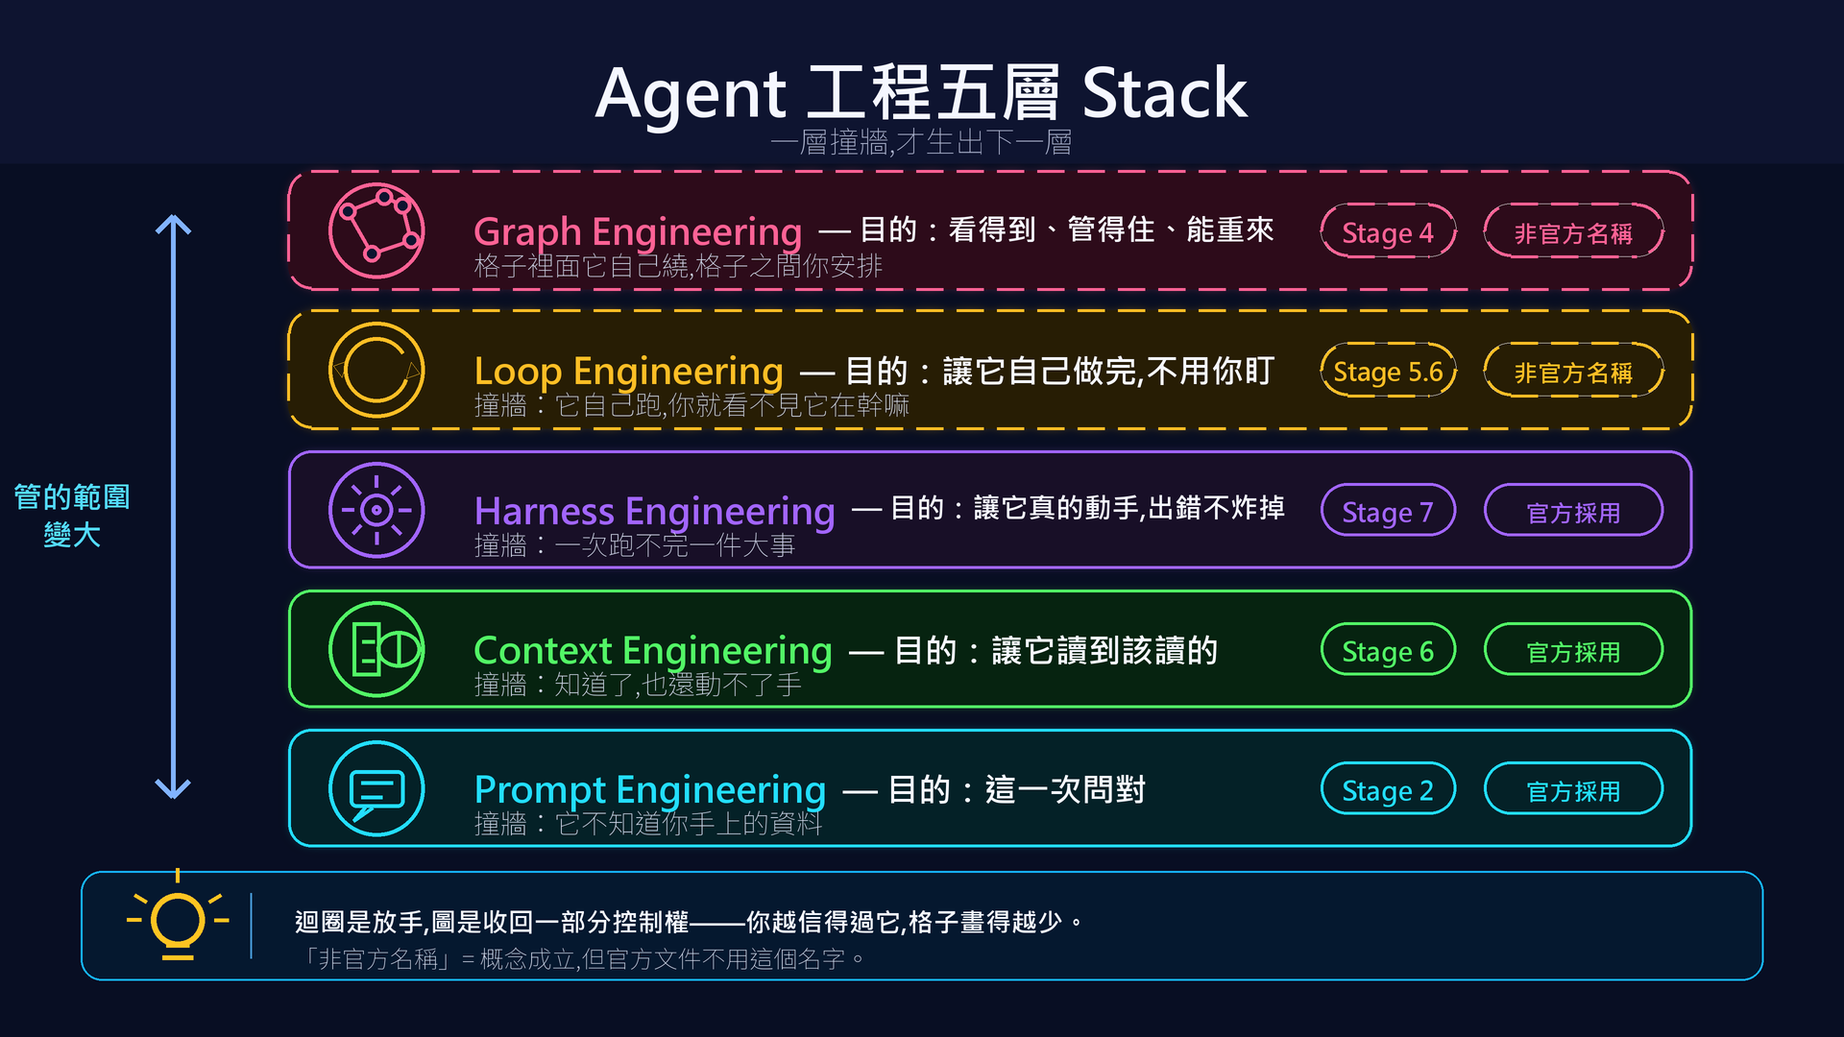
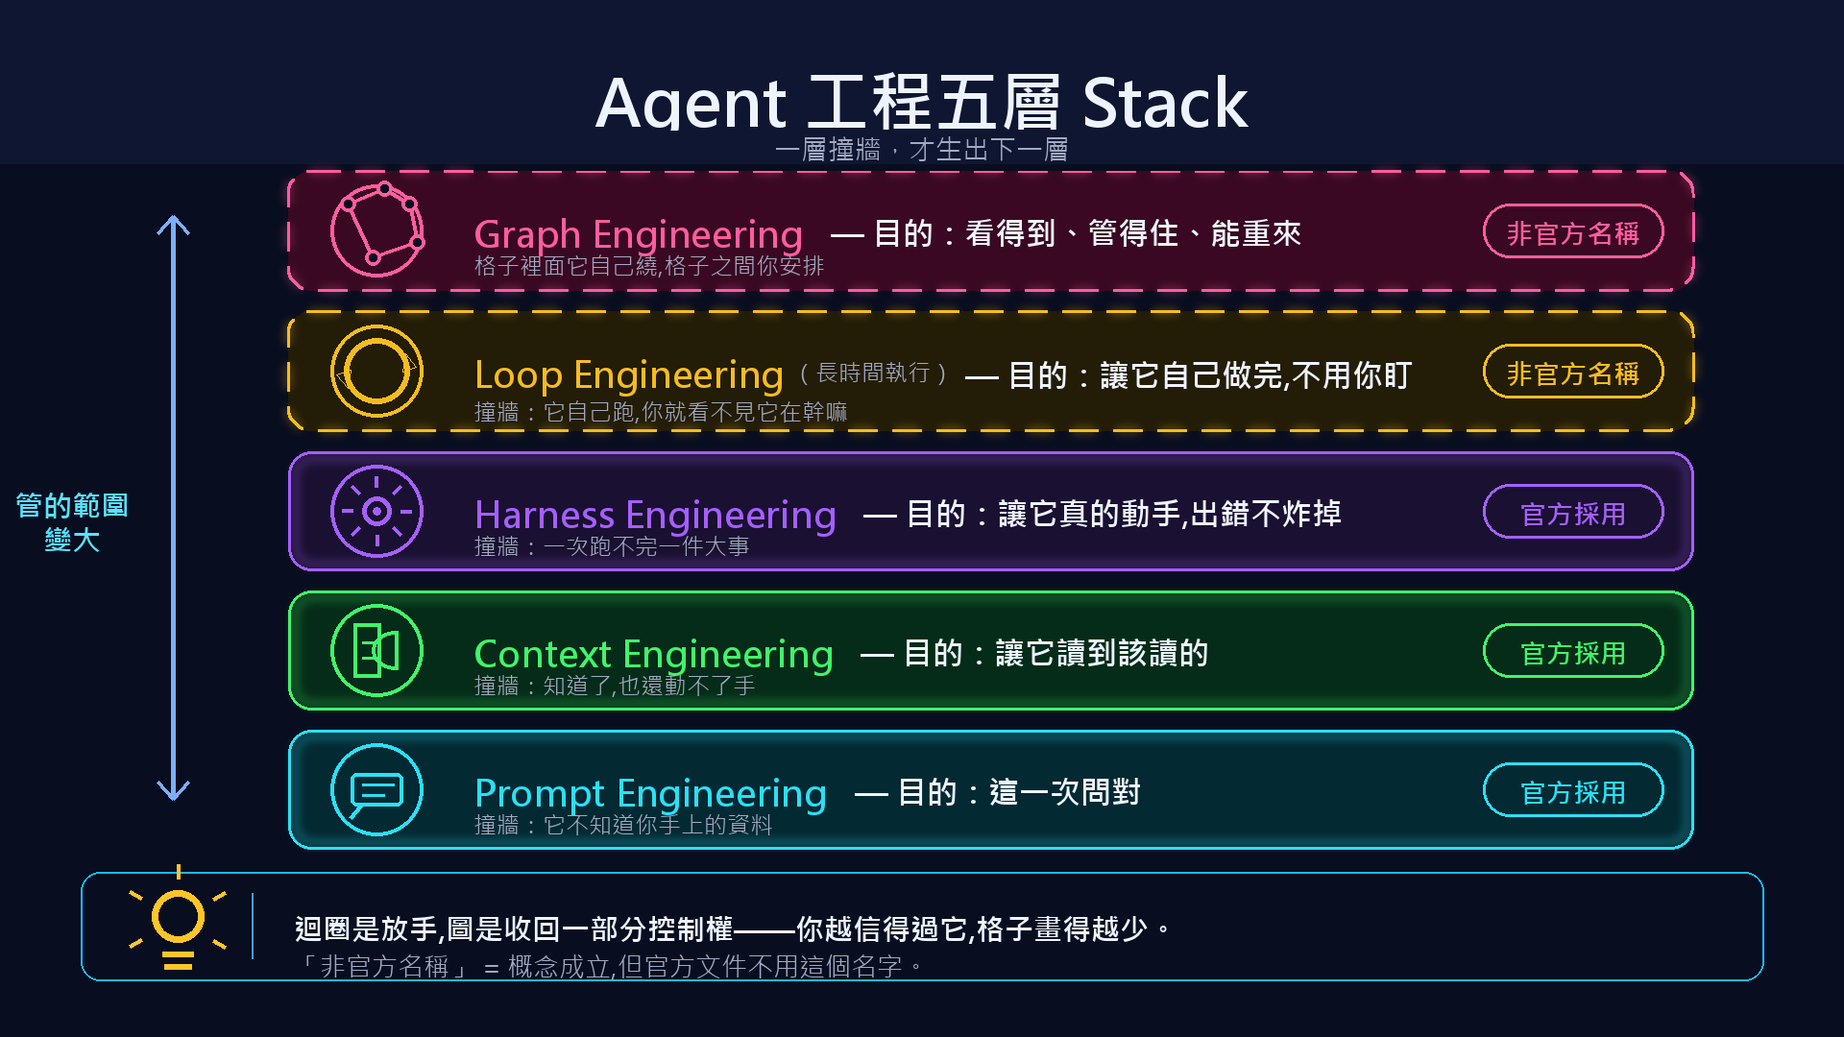
chore: sync upstream content

diff --git a/CHANGELOG.md b/CHANGELOG.md
@@ -6,6 +6,19 @@ Format: `YYYY-MM-DD · category · 1-line summary (commit-sha)`.
 
 ---
 
+## 2026-08-13
+
+- **fix** · **維護者回報五層階梯「排序看起來有問題」,查下去發現是兩個不同的毛病**。第一個:表格的「對應 stage」欄由上往下是 `2 → 6 → 7 → 5.6 → 4`——**前三列遞增、後兩列突然倒退**,看起來像階梯排錯(圖上更明顯:堆疊最上層的 Graph 標的是 Stage 4)。實際上那欄是「這個主題在哪一章講」,不是閱讀順序。欄名改成 **「在哪一章講」**,並加一句「**不是閱讀順序**,照 Stage 0 → 8 讀就好」。
+- **fix** · **第二個才是根因:`loop` 這個詞在同一章有兩個意思**。harness 自己的八個核心元件,第一個就叫 `Agent loop`(「LLM → tool → result → LLM」的機械迴圈);而第 4 層又叫 Loop Engineering。**同一個字,一個在 harness 裡面、一個在 harness 上面**,讀起來當然卡。stage 07 四處消歧義:第 4 層加副標 **(長時間執行)**、八元件那格加 **(單次執行內)** 並註明兩者層次不同、圖下補一句指路、白話差異那條點明「不是 harness 裡那個單次執行的機械迴圈」。
+- **fix** · **同一個字在 glossary 也撞,而且讀者卡住時第一個去查的是 glossary,不是 stage 07**。`Agent Loop` 與 `Loop Engineering` 兩條各自獨立,誰都沒提對方。兩條互相加上一句交叉引用(三語共六處)。這是同一個缺陷的另一個表面,不補等於只修了一半。
+- **content** · **沒有把 Loop 層拿掉**。維護者原本的直覺是收成四層(prompt → context → harness → graph),那也站得住。但這份階梯是**用「撞到什麼牆」串起來的**,而第 3 層 harness 撞的牆寫的是「一次跑不完一件大事」。收成四層之後,回答這道牆的就變成 Graph——可是 Graph 自己的目的欄寫的是「看得到、管得住、能重來」,那是**看得見**的問題,不是**跑得久**的問題。鏈子會斷在一個承重的接點上。所以判斷是**命名衝突而非層序排錯**,修命名不動層序。
+- **diagram** · **五層圖同步改版:拿掉每層左邊那顆 `Stage N` 徽章**,只留名稱來源徽章。理由是表格有空間放「不是閱讀順序」這句但書,**圖沒有**——所以圖負責概念與名稱來源,「去哪裡讀」交給表格。第 4 層的層名也加上副標。
+- **fix** · **這張圖改了三輪才對,而且第一輪的缺陷三語不一樣嚴重**。v3 把副標放成**第三行**,但卡片高度沒變:**英文版只是擠、還讀得出來,繁中與简中是真的重疊**——「（長時間執行）」壓到上面 `Loop Engineering` 的字母下緣、又跟下面「撞牆」黏在一起。**CJK 字高比拉丁字母高,同一套三行排版在英文只是擁擠、在中文就是撞在一起**;只看英文版會誤判成可以接受。v4 改成副標與層名**同一行**,每張卡維持兩行。(v3 的 PNG 沒留存,但生成腳本留在委派紀錄裡:副標確實是獨立一行畫的,delegate 自己當下也記了「the new Loop subtitle is colliding with the wall line」。**只有三語嚴重程度的差異**是純文字記錄,無法事後以像素稽核。)
+- **fix** · **v3 同時把兩個中文版的主標副標改壞了,而且沒人發現,一路抄到 v4**。已發布版本是「一層撞牆,才生出下一層」/「一层撞墙,才生出下一层」;v3 的生成腳本裡寫的卻是 `一層撞牆才生出下一層`(逗號沒了)與 `一层撞墙才出下一层`(**逗號沒了,「生」也沒了**)。v4 因為 brief 要求「照現行檔案逐字照抄」,把這兩個錯字原封不動又抄了一輪。**我每一輪都只放大檢查我要求改的那一列,主標那行從頭到尾沒被看過**——改動範圍是一列,重繪範圍是整張,這就是代價。v5 兩處調整才收斂:brief 裡**把三語副標原文逐字寫進去**(不再說「照現行檔案抄」),驗收條件改成**整張圖每一塊文字都裁切放大檢查**。抓到這個字的是 review,不是我。
+- **fix** · **v5 沒有重新生成,而是在舊圖上「清掉一塊再重畫」,清除範圍比標題底色帶多了 7 px**,在三張圖上都留下一條 921×7 px、比背景亮一階的橫向色階(ΔRGB 只有 `(7,9,17)`,1:1 檢視完全看不出來)。**這是純文字的驗收清單結構上抓不到的缺陷**——我用肉眼看了三張全圖都沒發現,是 review 逐像素掃出來的。已把那 7 列補回背景色並驗證色帶底緣三張一致。
+- **chore** · 我第一次描述 v3 缺陷時說「三語都重疊」,放大之後才發現**英文版其實沒有重疊**,只是擠。已在委派 brief 裡改成精確描述——拿不準的問題去要求重做,只會換回一個沒對準的修法。
+- **chore** · **這一輪真正的教訓不是「驗收要更仔細」**。這張圖沒有進版控的生成腳本,所以每一輪 delegate 都得從頭重寫一份繪圖程式——「逐字照抄」會失敗兩次,根因在這裡。把腳本連同文字一起進版控,「文字有沒有飄」就從裁圖瞇眼變成看 diff。列為下一輪待辦。
+
 ## 2026-08-12(第二批)
 
 - **diagram** · **新增第二張圖〈一張「圖」裡面有什麼〉(三語、1920×1080)**,接在 `stages/07`〈迴圈跟圖差在哪〉的核心引言正下方。五層那張回答「有哪五層」,這張回答**下一個問題**:圖到底長什麼樣。刻意畫成**由左到右的流程圖**、跟五層那張的堆疊構圖區隔開。圖上把**迴圈做不到的三件事**畫出來:兩格同時跑、不通過退回、以及**每個 agent 格右上角一個 ⟳ 標「格子裡面它自己繞圈」**——讓「迴圈活在格子裡」變成看得見的東西,而不是只有一句話。四種格子四色四 icon:**agent / 工具 / 驗證 / 人**。

diff --git a/stages/07-multi-agent-production.en.md b/stages/07-multi-agent-production.en.md
@@ -30,16 +30,20 @@ This is the final stage. You are moving from "I can build an agent" to "I can ma
 
 These five layers are **not a difficulty ladder**. They describe **how much scope you are managing**. They are also not a flat list: **each next layer appears because the previous layer hits a wall** (unrelated to "one call vs. many calls"):
 
-| Layer | Concept | Purpose (what it solves) | Wall it hits → why the next layer exists | Corresponding stage | Name source |
+| Layer | Concept | Purpose (what it solves) | Wall it hits → why the next layer exists | Where it is taught | Name source |
 |---|---|---|---|---|---|
 | 1 | **Prompt Engineering** | Ask the right thing this time | It does not know the data you have | [Stage 2](02-prompt-engineering.en.md) | Officially used |
 | 2 | **Context Engineering** | Let it read the right information | It knows, but still cannot act | [Stage 6](06-memory-rag.en.md) | Officially used |
 | **3** | **Harness Engineering**<br>(**This stage**) | Let it actually act without blowing up on errors | One run cannot finish a large job | **This stage** | Officially used |
-| 4 | **Loop Engineering** | Let it finish by itself without you watching | It runs by itself, so you cannot see what it is doing | [Stage 5.6](05-claude-code-ecosystem.en.md) | ⚠ Unofficial name |
+| 4 | **Loop Engineering**<br>(long-horizon) | Let it finish by itself without you watching | It runs by itself, so you cannot see what it is doing | [Stage 5.6](05-claude-code-ecosystem.en.md) | ⚠ Unofficial name |
 | 5 | **Graph Engineering** | Make the process visible, controllable, and resumable | — (currently the outermost layer) | [Stage 4](04-agent-frameworks.en.md) | ⚠ Unofficial name |
 
 ![Agent engineering five-layer stack](../resources/diagrams/agent-engineering-5layer.en.png)
 
+> ⚠ **"Where it is taught" is not a reading order**. Layers 4 and 5 happen to be covered in earlier chapters (5.6 and 4), so that column appears to run backwards as you read down. **Just read Stage 0 → 8 in order**; this column only tells you where to go when you want the detail.
+>
+> ⚠ **Layer 4's "Loop" means long-horizon**: hundreds of steps, picking up again in a new session, deciding when to stop. It shares a name with the `Agent loop` in the harness component table further down (the mechanical cycle inside a single run) but sits at a different level; that table says so again when you reach it.
+>
 > ⚠ **Pay attention to the "Name source" column**. The first three terms are used by vendor documentation (Anthropic has context engineering material, and OpenAI used harness engineering in 2026-02). **The last two are not**: Loop / Graph Engineering are community names. The concepts are real, but Anthropic calls similar mechanisms *dynamic workflows*, while Google ADK and Microsoft Agent Framework use *graph-based workflow(s)*. If you cannot find "graph engineering" in official docs, you are not missing it.
 
 **Plain-language difference**:
@@ -47,7 +51,7 @@ These five layers are **not a difficulty ladder**. They describe **how much scop
 - **Prompt** = design a good way of asking so the model answers correctly this time
 - **Context** = dynamically decide which background, memory, documents, and tool results to include so the model understands the current situation
 - **Harness** = connect prompt, context, tools, state, flow control, and error handling into a system that can actually run
-- **Loop** = give it a goal, let it repeat until the result is good enough, and decide when it should stop
+- **Loop** = give it a goal, let it repeat until the result is good enough, decide when it should stop, and let a fresh session pick up where the last one left off (**not** the single-run mechanical loop inside the harness)
 - **Graph** = split the work into boxes first, draw which box connects to which, and make the process visible and resumable
 
 ### Loop vs. graph: what is the difference?
@@ -150,7 +154,7 @@ To turn an LLM into a usable agent, the first thing you meet is **the first thre
 
 | Component | What it Does | Corresponding Exercise in this Stage |
 |---|---|---|
-| **Agent loop** | The "LLM → tool → result → LLM" loop, stably handling multiple turns | Exercise 1 Multi-agent debate |
+| **Agent loop**<br>(within one run) | The "LLM → tool → result → LLM" loop, stably handling multiple turns. **This is the loop inside a single run**, a different level from Layer 4 Loop Engineering, which is about long-horizon execution across sessions | Exercise 1 Multi-agent debate |
 | **Tool registry** | Dynamic tool dispatch, permission gates, sandboxing | (Present in every framework / SDK) |
 | **Context manager** | Message history management, context window control, auto-compaction | Stage 6 + This stage's Exercise 4 SDK |
 | **Safety layer** | Permission prompts, sandboxed execution, interception of destructive ops | (Built into Claude Code, customizable in SDKs) |

diff --git a/stages/07-multi-agent-production.zh-Hans.md b/stages/07-multi-agent-production.zh-Hans.md
@@ -30,16 +30,20 @@
 
 这五层**不是难度阶梯**，是“**你在管多大范围**”。而且它们不是并列的清单，是**一层撞墙、才生出下一层**（跟“call 一次 vs 多次”无关）：
 
-| 层级 | 概念 | 目的（要解决什么） | 撞到什么墙 → 所以有下一层 | 对应 stage | 名称来源 |
+| 层级 | 概念 | 目的（要解决什么） | 撞到什么墙 → 所以有下一层 | 在哪一章讲 | 名称来源 |
 |---|---|---|---|---|---|
 | 1 | **Prompt Engineering** | 这一次问对 | 它不知道你手上的资料 | [Stage 2](02-prompt-engineering.zh-Hans.md) | 官方采用 |
 | 2 | **Context Engineering** | 让它读到该读的 | 知道了，也还动不了手 | [Stage 6](06-memory-rag.zh-Hans.md) | 官方采用 |
 | **3** | **Harness Engineering**<br>（**本 stage**） | 让它真的动手，出错不炸掉 | 一次跑不完一件大事 | **本 stage** | 官方采用 |
-| 4 | **Loop Engineering** | 让它自己做完，不用你盯 | 它自己跑，你就看不见它在干嘛 | [Stage 5.6](05-claude-code-ecosystem.zh-Hans.md) | ⚠ 非官方名称 |
+| 4 | **Loop Engineering**<br>（长时间执行） | 让它自己做完，不用你盯 | 它自己跑，你就看不见它在干嘛 | [Stage 5.6](05-claude-code-ecosystem.zh-Hans.md) | ⚠ 非官方名称 |
 | 5 | **Graph Engineering** | 看得到、管得住、能重来 | —（目前最外一层） | [Stage 4](04-agent-frameworks.zh-Hans.md) | ⚠ 非官方名称 |
 
 ![Agent 工程五层 Stack](../resources/diagrams/agent-engineering-5layer.zh-Hans.png)
 
+> ⚠ **“在哪一章讲”不是阅读顺序**。第 4、5 层的主题刚好在比较前面的章节出现过（5.6 与 4），所以那一栏由上往下看会“倒退”。**照 Stage 0 → 8 的原顺序读就好**，这一栏只是告诉你想深入时翻哪里。
+>
+> ⚠ **第 4 层的 Loop 是“长时间”的意思**——跑数百步、跨 session 还能接下去、什么时候该停。它跟后面 harness 元件表里那个 `Agent loop`（单次执行内的机械循环）同名但不同层次，读到那里会再讲一次。
+>
 > ⚠ **“名称来源”那一栏要看一下**。前三个词厂商自己的文件在用（Anthropic 有 context engineering 专文、OpenAI 2026-02 用了 harness engineering）。**后两个没有**：Loop / Graph Engineering 是社群讲出来的名字，概念真的成立，但 Anthropic 官方叫 *dynamic workflows*、Google ADK 与 Microsoft Agent Framework 叫 *graph-based workflow(s)*。你去查官方文件查不到“graph engineering”这个词，不是你漏看。
 
 **白话差异**：
@@ -47,7 +51,7 @@
 - **Prompt** = 设计一个好的问法，让模型这次回答准
 - **Context** = 动态决定要放入哪些背景、记忆、文件、工具结果，让模型知道当前情境
 - **Harness** = 把 prompt、context、tools、state、流程控制、错误处理串成一套真的能跑的系统
-- **Loop** = 交代一个目标，让它自己重复做到够好为止，并且决定“什么时候该停”
+- **Loop** = 交代一个目标，让它自己重复做到够好为止，并且决定“什么时候该停”、下次开新 session 还接得下去（**不是** harness 里那个单次执行的机械循环）
 - **Graph** = 先把工作拆成几个格子、画出谁接谁，让过程看得到、能从中间接着跑
 
 ### 循环跟图差在哪（这两个最容易混）
@@ -150,7 +154,7 @@
 
 | 元件 | 做什么 | 对应本 stage 练习 |
 |---|---|---|
-| **Agent loop** | “LLM → tool → result → LLM”循环、稳定处理多轮 | 练习 1 multi-agent 辩论 |
+| **Agent loop**<br>（单次执行内） | “LLM → tool → result → LLM”循环、稳定处理多轮。**这是一次执行里面的循环**，跟上面第 4 层 Loop Engineering 讲的“跨 session 长时间执行”不同层次 | 练习 1 multi-agent 辩论 |
 | **Tool registry** | 动态 tool dispatch、permission gate、sandboxing | （在每个 framework / SDK 都有）|
 | **Context manager** | message history 管理、context window 控制、auto-compact | Stage 6 + 本 stage 练习 4 SDK |
 | **Safety layer** | permission prompts、sandboxed exec、destructive op 拦截 | （Claude Code 内建、SDK 可自定义）|

diff --git a/stages/07-multi-agent-production.md b/stages/07-multi-agent-production.md
@@ -30,16 +30,20 @@
 
 這五層**不是難度階梯**，是「**你在管多大範圍**」。而且它們不是並列的清單，是**一層撞牆、才生出下一層**（跟「call 一次 vs 多次」無關）：
 
-| 層級 | 概念 | 目的（要解決什麼） | 撞到什麼牆 → 所以有下一層 | 對應 stage | 名稱來源 |
+| 層級 | 概念 | 目的（要解決什麼） | 撞到什麼牆 → 所以有下一層 | 在哪一章講 | 名稱來源 |
 |---|---|---|---|---|---|
 | 1 | **Prompt Engineering** | 這一次問對 | 它不知道你手上的資料 | [Stage 2](02-prompt-engineering.md) | 官方採用 |
 | 2 | **Context Engineering** | 讓它讀到該讀的 | 知道了，也還動不了手 | [Stage 6](06-memory-rag.md) | 官方採用 |
 | **3** | **Harness Engineering**<br>（**本 stage**） | 讓它真的動手，出錯不炸掉 | 一次跑不完一件大事 | **本 stage** | 官方採用 |
-| 4 | **Loop Engineering** | 讓它自己做完，不用你盯 | 它自己跑，你就看不見它在幹嘛 | [Stage 5.6](05-claude-code-ecosystem.md) | ⚠ 非官方名稱 |
+| 4 | **Loop Engineering**<br>（長時間執行） | 讓它自己做完，不用你盯 | 它自己跑，你就看不見它在幹嘛 | [Stage 5.6](05-claude-code-ecosystem.md) | ⚠ 非官方名稱 |
 | 5 | **Graph Engineering** | 看得到、管得住、能重來 | —（目前最外一層） | [Stage 4](04-agent-frameworks.md) | ⚠ 非官方名稱 |
 
 ![Agent 工程五層 Stack](../resources/diagrams/agent-engineering-5layer.png)
 
+> ⚠ **「在哪一章講」不是閱讀順序**。第 4、5 層的主題剛好在比較前面的章節出現過（5.6 與 4），所以那一欄由上往下看會「倒退」。**照 Stage 0 → 8 的原順序讀就好**，這一欄只是告訴你想深入時翻哪裡。
+>
+> ⚠ **第 4 層的 Loop 是「長時間」的意思**——跑數百步、跨 session 還能接下去、什麼時候該停。它跟後面 harness 元件表裡那個 `Agent loop`（單次執行內的機械迴圈）同名但不同層次，讀到那裡會再講一次。
+>
 > ⚠ **「名稱來源」那一欄要看一下**。前三個詞廠商自己的文件在用（Anthropic 有 context engineering 專文、OpenAI 2026-02 用了 harness engineering）。**後兩個沒有**：Loop / Graph Engineering 是社群講出來的名字，概念真的成立，但 Anthropic 官方叫 *dynamic workflows*、Google ADK 與 Microsoft Agent Framework 叫 *graph-based workflow(s)*。你去查官方文件查不到「graph engineering」這個詞，不是你漏看。
 
 **白話差異**：
@@ -47,7 +51,7 @@
 - **Prompt** = 設計一個好的問法，讓模型這次回答準
 - **Context** = 動態決定要放入哪些背景、記憶、文件、工具結果，讓模型知道現在情境
 - **Harness** = 把 prompt、context、工具、狀態、流程控制、錯誤處理串成一套可以運作的系統
-- **Loop** = 交代一個目標，讓它自己重複做到夠好為止，並且決定「什麼時候該停」
+- **Loop** = 交代一個目標，讓它自己重複做到夠好為止，並且決定「什麼時候該停」、下次開新 session 還接得下去（**不是** harness 裡那個單次執行的機械迴圈）
 - **Graph** = 先把工作拆成幾個格子、畫出誰接誰，讓過程看得到、能從中間接著跑
 
 ### 迴圈跟圖差在哪（這兩個最容易混）
@@ -150,7 +154,7 @@
 
 | 元件 | 做什麼 | 對應本 stage 練習 |
 |---|---|---|
-| **Agent loop** | 「LLM → tool → result → LLM」迴圈、穩定處理多輪 | 練習 1 multi-agent 辯論 |
+| **Agent loop**<br>（單次執行內） | 「LLM → tool → result → LLM」迴圈、穩定處理多輪。**這是一次執行裡面的迴圈**，跟上面第 4 層 Loop Engineering 講的「跨 session 長時間執行」不同層次 | 練習 1 multi-agent 辯論 |
 | **Tool registry** | 動態 tool dispatch、permission gate、sandboxing | （在每個 framework / SDK 都有）|
 | **Context manager** | message history 管理、context window 控制、auto-compact | Stage 6 + 本 stage 練習 4 SDK |
 | **Safety layer** | permission prompts、sandboxed exec、destructive op 攔截 | （Claude Code 內建、SDK 可自訂）|

diff --git a/resources/glossary.en.md b/resources/glossary.en.md
@@ -132,6 +132,8 @@ Make the LLM output **JSON or another fixed schema** instead of free text. All m
 
 The "LLM → tool → result → LLM" repeated cycle. Termination: LLM says "done" / step budget exhausted / cost cap hit.
 
+⚠ **This is the loop *inside a single run*** — one component of a harness. It shares a name with [Loop Engineering](#loop-engineering), Layer 4 of the five-layer ladder, which governs long-horizon execution *across* sessions. Different levels, same word. The boundary is drawn in [Stage 7](../stages/07-multi-agent-production.en.md).
+
 ### Self-Refine (Basic reflection / no memory)
 
 The agent evaluates the previous round's output and changes the next round's behavior — an "Actor answers → Critic finds issues → Actor reads feedback and answers again" single-session loop. **It does not need a persistent memory layer**; it is purely a reasoning-loop mechanism, a sibling pattern to ReAct. Production agents (Cursor / Cline / Claude Code) run variants of this every day.
@@ -406,6 +408,8 @@ Contrast:
 ### Loop Engineering
 
 Layer 4 in the five-layer engineering split (see [Stage 7](../stages/07-multi-agent-production.en.md), the canonical source for the full ladder and each layer's purpose): designing and tuning an agent's iteration loop itself (goal, tools, context management, termination logic, error handling) so long-running, multi-step, cross-session execution stays reliable and on-target. Related: harness, Dynamic Workflows, ReAct.
+
+⚠ **Do not confuse this with the [Agent Loop](#agent-loop) inside a harness**. This layer governs the long-horizon problem *across many runs*; `Agent Loop` is a harness component governing the mechanical cycle *within one run*.
 
 ### Graph Engineering
 
